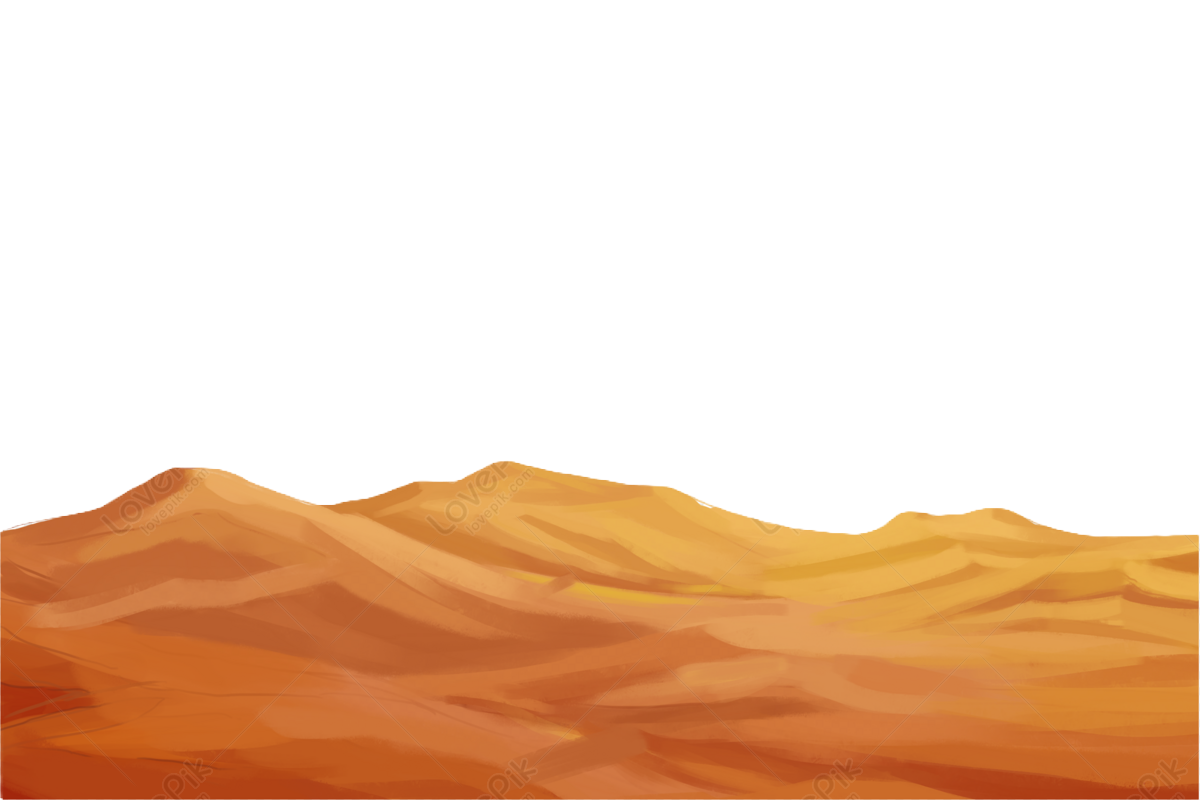
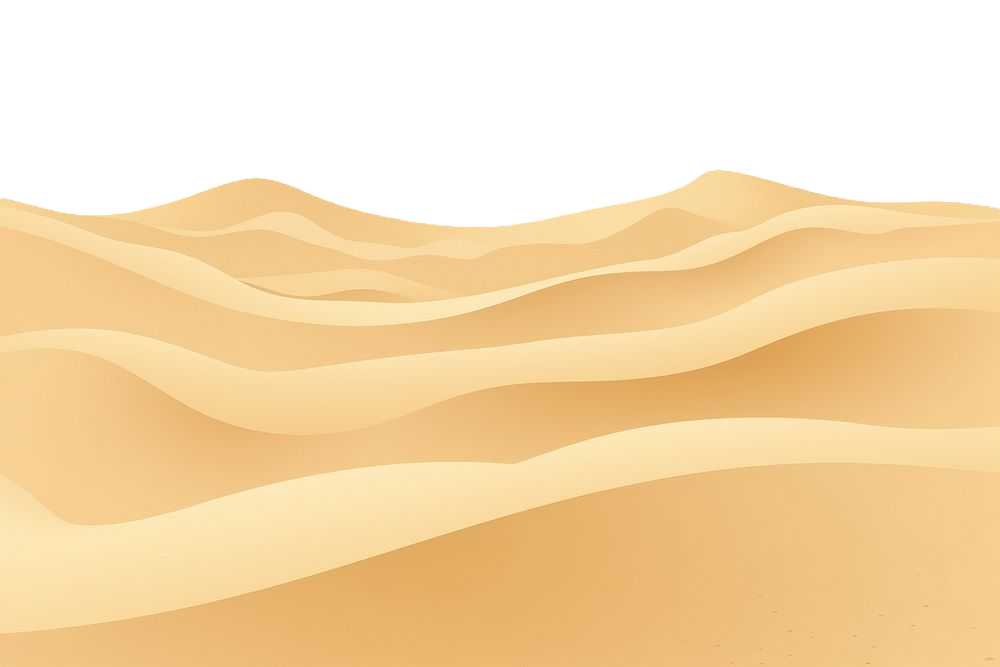
rendering pyramids and switched desert

diff --git a/Sablon/game.cpp b/Sablon/game.cpp
@@ -7,6 +7,9 @@
 ** option) any later version.
 ******************************************************************/
 #include "game.h"
+
+#include <algorithm>
+
 #include "resource_manager.h"
 #include "sprite_renderer.h"
 #include "game_object.h"
@@ -25,6 +28,7 @@ GameObject* Sky;
 GameObject* Star;
 vector<GameObject*> Stars;
 vector<GameObject*> Grass;
+vector<GameObject*> Pyramids;
 GameObject* Water;
 GameObject* Fish;
 
@@ -55,6 +59,9 @@ Game::~Game()
     for (const auto& grass : Grass) {
         delete grass;
     }
+    for (const auto& pyramid: Pyramids) {
+        delete pyramid;
+    }
 }
 
 void Game::Init()
@@ -82,10 +89,11 @@ void Game::Init()
 
     Sun = new GameObject(glm::vec2(this->Width-200.0f, this->Height / 2.0f - 100.0f), glm::vec2(200.0f, 200.0f), ResourceManager::GetTexture("sun"));
     Moon = new GameObject(glm::vec2(0.0f, this->Height / 2.0f - 100.0f), glm::vec2(200.0f, 200.0f), ResourceManager::GetTexture("moon"));
-    Desert = new GameObject(glm::vec2(0.0f, Height/2.0f), glm::vec2(Width, Height/2.0f), ResourceManager::GetTexture("desert"));
+    Desert = new GameObject(glm::vec2(0.0f, Height/2), glm::vec2(Width, Height/2), ResourceManager::GetTexture("desert"));
     Sky = new GameObject(glm::vec2(0.0f, 0.0f), glm::vec2(Width, Height), ResourceManager::GetTexture("sky"));
     Water = new GameObject(glm::vec2(Width / 1.5f, Height / 1.2f), glm::vec2(Width/3, Width/10), ResourceManager::GetTexture("water"), glm::vec3(1.0f), glm::vec2(0.0f, 0.0f), 0.7f);
     _initializeStars();
+    _initializePyramids();
     Fish = new GameObject(glm::vec2(Width / 1.45f, Height / 1.1f), glm::vec2(Width / 30, Width/30), ResourceManager::GetTexture("fish"));
 
 }
@@ -115,26 +123,34 @@ void Game::ProcessInput(int key)
     {
         Fish->FlipHorizontally();
     }
+    if (key == GLFW_KEY_3)
+    {
+        _initializePyramids();
+    }
 }
 
 void Game::Render()
 {
     Sky->Draw(*Renderer);
 
-    for (auto& star : Stars) {
+    for (const auto& star : Stars) {
         star->Draw(*Renderer);
     }
+    
 
     Sun->Draw(*Renderer);
     Moon->Draw(*Renderer);
     Desert->Draw(*Renderer);
+    for (const auto& pyramid : Pyramids) {
+        pyramid->Draw(*Renderer);
+    }
     Fish->Draw(*Renderer);
     Water->Draw(*Renderer);
 }
 
 void Game::_updateSunAndMoon(float dt)
 {
-    glm::vec2 circleCenter = glm::vec2(this->Width / 2.0f, _getSunRiseHeightPoint()); 
+	const auto circleCenter = glm::vec2(this->Width / 2.0f, _getSunRiseHeightPoint()); 
 
     _sunAngle += _timeSpeed * dt;       
 
@@ -151,7 +167,7 @@ void Game::_updateSunAndMoon(float dt)
     Moon->Position.y = circleCenter.y + _getSunRotationRadius() * sin(moonRadians);
 }
 
-void Game::_updateSkyBrightness(float dt)
+void Game::_updateSkyBrightness(float dt) const
 {
     float normalizedHeight = (_getSunRiseHeightPoint() - Sun->Position.y) / _getSunRotationRadius();
     normalizedHeight = glm::clamp(normalizedHeight, 0.0f, 1.0f);
@@ -180,11 +196,39 @@ void Game::_initializeStars()
     for (int i = 0; i < starCount; ++i) {
         const auto x = static_cast<float>(rand() % Width);
         const auto y = static_cast<float>(rand() % static_cast<int>(_getSunRiseHeightPoint()));
-        const auto size = static_cast<float>(10 + std::rand() % 21);
+        const auto size = static_cast<float>(10 + rand() % 21);
         Stars[i]->Position = glm::vec2(x, y);
         Stars[i]->Size = glm::vec2(size, size);
         Stars[i]->Alpha = 1.0f; 
     }
+}
+
+void Game::_initializePyramids() const
+{
+    srand(static_cast<unsigned>(std::time(nullptr)));
+    constexpr int pyramidCount = 3;
+
+    while (Pyramids.size() < pyramidCount) {
+        Pyramids.push_back(new GameObject(glm::vec2(0.0f, 0.0f), glm::vec2(0.0f, 0.0f), ResourceManager::GetTexture("pyramid")));
+    }
+
+    for (int i = 0; i < pyramidCount; ++i) {
+        const auto size = static_cast<float>(Width) / 10 + rand() % 100;
+        const auto x = static_cast<float>(rand() % Width/2);
+        const auto y = _getSunRiseHeightPoint() - size + rand() % static_cast<int>(Height - _getSunRiseHeightPoint());
+        Pyramids[i]->Position = glm::vec2(x, y);
+        Pyramids[i]->Size = glm::vec2(size, size);
+        Pyramids[i]->Alpha = 1.0f;
+    }
+
+    std::sort(Pyramids.begin(), Pyramids.end(), [](const GameObject* a, const GameObject* b)
+    {
+        return a->Position.y + a->Size.y < b->Position.y + b->Size.y;
+    });
+}
+
+void Game::_initializeGrass()
+{
 }
 
 void Game::_moveFish(float dt)

diff --git a/Sablon/program.cpp b/Sablon/program.cpp
@@ -109,24 +109,29 @@ int main(int argc, char* argv[])
 
 void key_callback(GLFWwindow* window, int key, int scancode, int action, int mode)
 {
-    // when a user presses the escape key, we set the WindowShouldClose property to true, closing the application
-    if (key == GLFW_KEY_ESCAPE && action == GLFW_PRESS)
+    // Close the window on Escape key press
+    if (key == GLFW_KEY_ESCAPE && action == GLFW_PRESS) {
         glfwSetWindowShouldClose(window, true);
-    if (key == GLFW_KEY_F && action == GLFW_RELEASE)
-        Egipt.ProcessInput(key);
-    if (key == GLFW_KEY_S && action == GLFW_RELEASE)
-        Egipt.ProcessInput(key);
-    if (key == GLFW_KEY_P && action == GLFW_RELEASE)
-        Egipt.ProcessInput(key);
-    if (key == GLFW_KEY_R && action == GLFW_RELEASE)
-        Egipt.ProcessInput(key);
+        return;
+    }
 
-    if (key >= 0 && key < 1024)
-    {
-        if (action == GLFW_PRESS)
-            Egipt.Keys[key] = true;
-        else if (action == GLFW_RELEASE)
-            Egipt.Keys[key] = false;
+    // Process specific keys on key release
+    if (action == GLFW_RELEASE) {
+        switch (key) {
+        case GLFW_KEY_F:
+        case GLFW_KEY_S:
+        case GLFW_KEY_P:
+        case GLFW_KEY_R:
+        case GLFW_KEY_3:
+            Egipt.ProcessInput(key);
+            break;
+		default: ;
+        }
+    }
+
+    // Update key state for valid keys
+    if (key >= 0 && key < 1024) {
+        Egipt.Keys[key] = (action == GLFW_PRESS);
     }
 }
 

diff --git a/Sablon/Game.h b/Sablon/Game.h
@@ -43,10 +43,12 @@ private:
     float _sunAngle = 180.0f;
     float _timeSpeed = 50.0f;
     void _updateSunAndMoon(float dt);
-    void _updateSkyBrightness(float dt);
+    void _updateSkyBrightness(float dt) const;
     float _getSunRiseHeightPoint() const;
     float _getSunRotationRadius() const;
     void _initializeStars();
+    void _initializePyramids() const;
+    void _initializeGrass();
     void _moveFish(float dt);
 };
 
